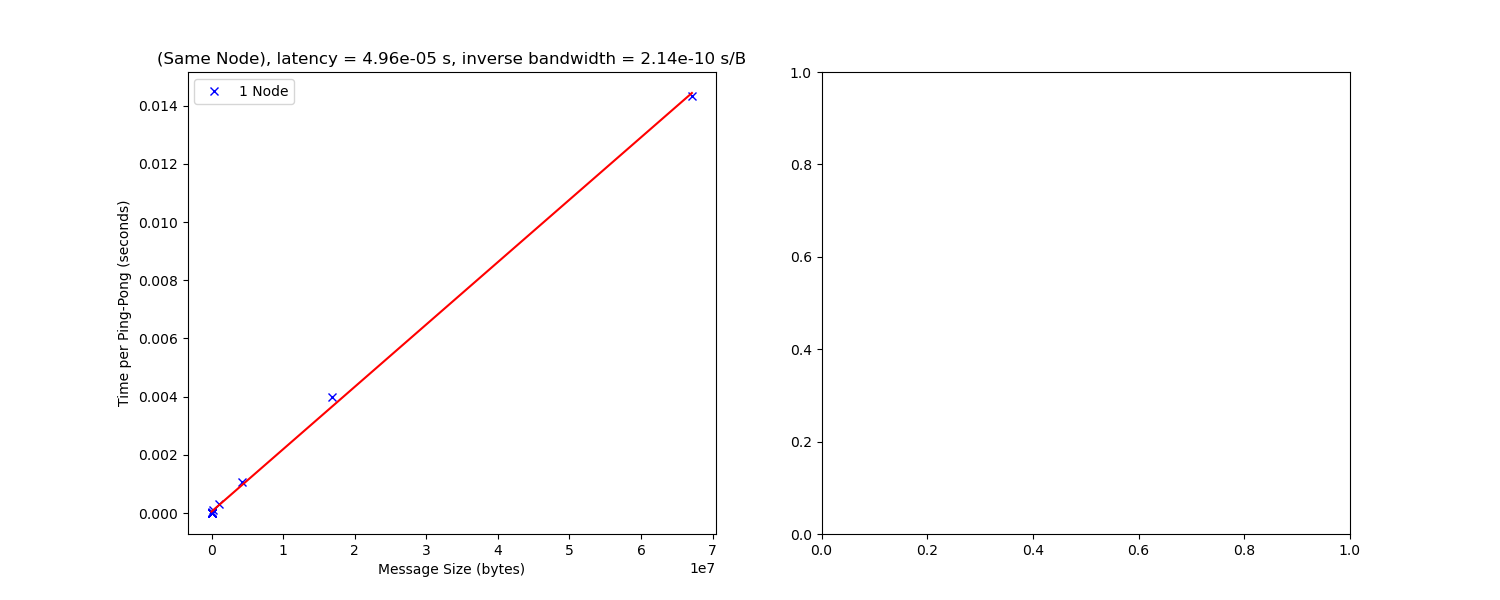
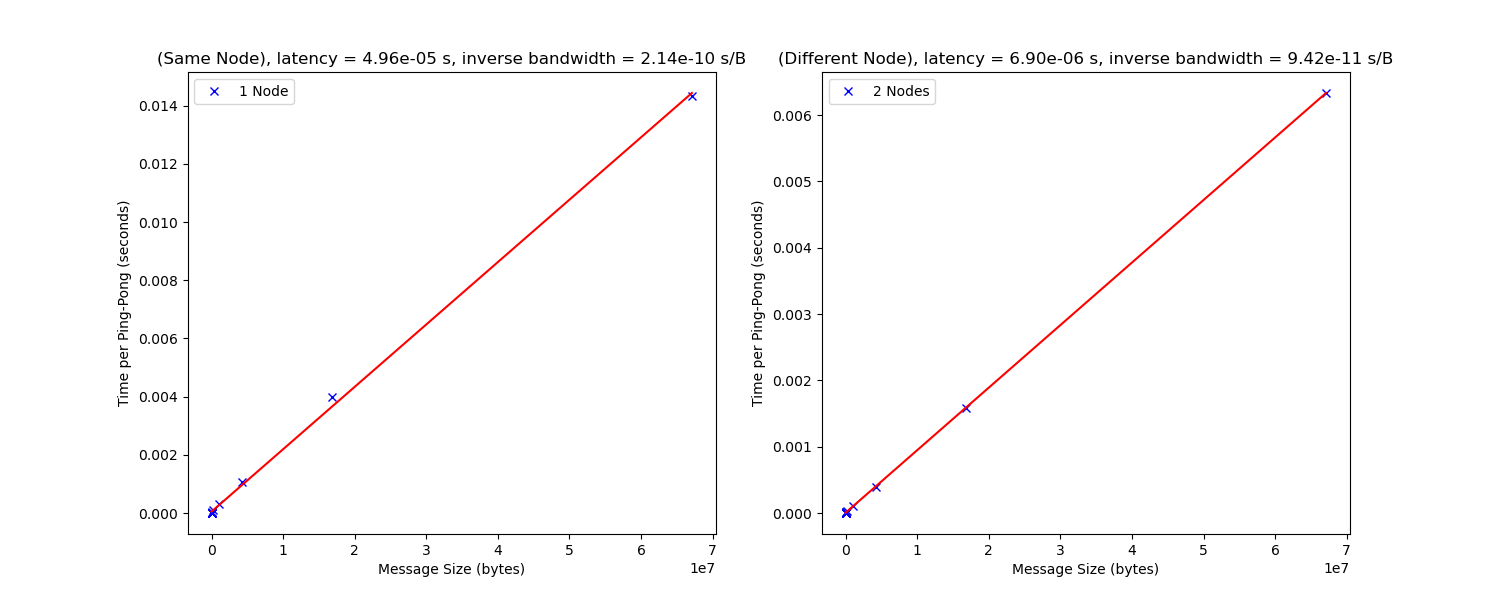
changed python to output 2 figures, updated slurm to explicitly run 2 tasks per node

diff --git a/mpi-ping-pong/fit.py b/mpi-ping-pong/fit.py
@@ -3,18 +3,18 @@ import numpy as np
 import matplotlib.pyplot as plt
 from scipy import stats
 data_1_node = pd.read_csv('one-node-pp.dat', delimiter=",", header=None, names=['iterations', 'nbytes','time'])
-print(data_1_node)
+data_2_node = pd.read_csv('two-node-pp.dat', delimiter=",", header=None, names=['iterations', 'nbytes','time'])
 fig, axs = plt.subplots(1, 2, figsize=(15, 6))
-axs[0].plot(data_1_node['nbytes'], data_1_node['time']/data_1_node['iterations'], marker='x', label='1 Node',color = "blue",linestyle="")
-xs = np.linspace(data_1_node['nbytes'].min(), data_1_node['nbytes'].max(), 10000)
-fit = stats.linregress(data_1_node['nbytes'], data_1_node['time']/data_1_node['iterations'])
-alpha = fit.intercept
-beta = fit.slope
-print(alpha)
-axs[0].plot(xs, alpha + beta*xs,marker = "", color='red')
-axs[0].set_xlabel('Message Size (bytes)')
-axs[0].set_ylabel('Time per Ping-Pong (seconds)')
-axs[0].set_title('(Same Node), latency = %.2e s, inverse bandwidth = %.2e s/B' % (alpha, beta))
-axs[0].legend()
-fig.savefig('ping_pong_same_node.png')
+for i, data in enumerate([data_1_node, data_2_node]):
+    axs[i].plot(data['nbytes'], data['time']/data['iterations'], marker='x', label=f'{i+1} Node{"s" if i else ""}',color = "blue",linestyle="")
+    xs = np.linspace(data['nbytes'].min(), data['nbytes'].max(), 10000)
+    fit = stats.linregress(data['nbytes'], data['time']/data['iterations'])
+    alpha = fit.intercept
+    beta = fit.slope
+    axs[i].plot(xs, alpha + beta*xs,marker = "", color='red')
+    axs[i].set_xlabel('Message Size (bytes)')
+    axs[i].set_ylabel('Time per Ping-Pong (seconds)')
+    axs[i].set_title(f'({"Same" if i == 0 else "Different"} Node), latency = %.2e s, inverse bandwidth = %.2e s/B' % (alpha, beta))
+    axs[i].legend()
+fig.savefig('ping_pong.png')
 plt.show()
